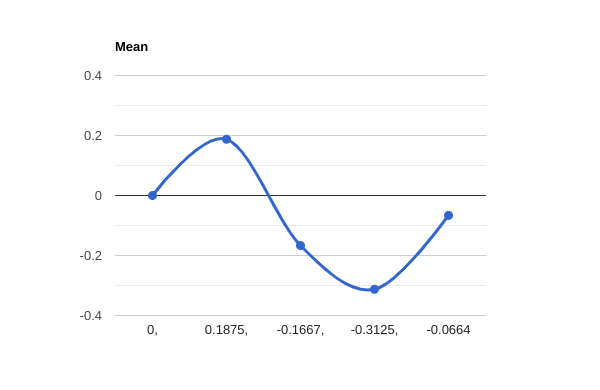
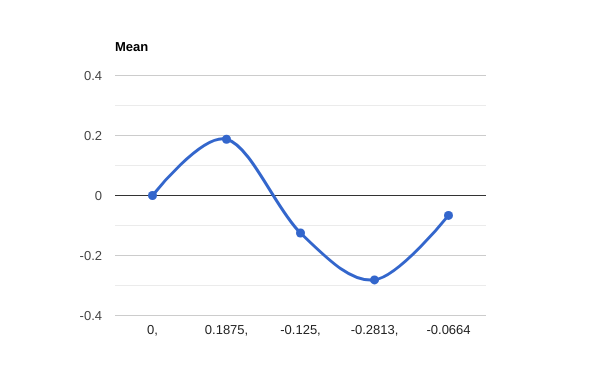
Updated the docs

diff --git a/docs/heuristics.md b/docs/heuristics.md
@@ -53,7 +53,7 @@ Evaluation functions allow to transform a FEN position to a normalized array of 
 - [Chess\Eval\CompleteFunction](https://github.com/chesslablab/php-chess/blob/main/tests/unit/Eval/CompleteFunctionTest.php)
 - [Chess\Eval\FastFunction](https://github.com/chesslablab/php-chess/blob/main/tests/unit/Eval/FastFunctionTest.php)
 
-The complete evaluation function is intended to be used for chess positions while the fast evaluation function is used for entire games.
+The fast evaluation function is convenient to evaluate entire games while the complete evaluation function is intended for specific chess positions as shown in the following example.
 
 ```php
 use Chess\FenToBoardFactory;
@@ -263,14 +263,14 @@ The data is plotted in a way that is easy for chess players to understand and le
 
 ## Extract Chess Data
 
-[Chess\SanExtractor](https://github.com/chesslablab/php-chess/blob/main/tests/unit/SanExtractorTest.php) extracts oscillations data for further analysis like the following example.
+[Chess\SanExtractor](https://github.com/chesslablab/php-chess/blob/main/tests/unit/SanExtractorTest.php) extracts data from entire games like the following example.
 
 ```php
 use Chess\SanExtractor;
-use Chess\Eval\CompleteFunction;
+use Chess\Eval\FastFunction;
 use Chess\Variant\Classical\Board;
 
-$f = new CompleteFunction();
+$f = new FastFunction();
 $board = new Board();
 $movetext = '1.e4 d5 2.exd5 Qxd5';
 ```
@@ -318,8 +318,6 @@ Array
     [27] => 0
     [28] => 0
     [29] => -0.022
-    [30] => 0
-    [31] => 0
 )
 ```
 
@@ -361,8 +359,8 @@ Array
 (
     [0] => 0
     [1] => 0.1875
-    [2] => -0.1667
-    [3] => -0.3125
+    [2] => -0.125
+    [3] => -0.2813
     [4] => -0.0664
 )
 ```
@@ -382,8 +380,8 @@ Array
 (
     [0] => 0
     [1] => 0.7601
-    [2] => -0.8498
-    [3] => -0.7294
+    [2] => -0.8927
+    [3] => -0.7623
     [4] => -0.5406
 )
 ```
